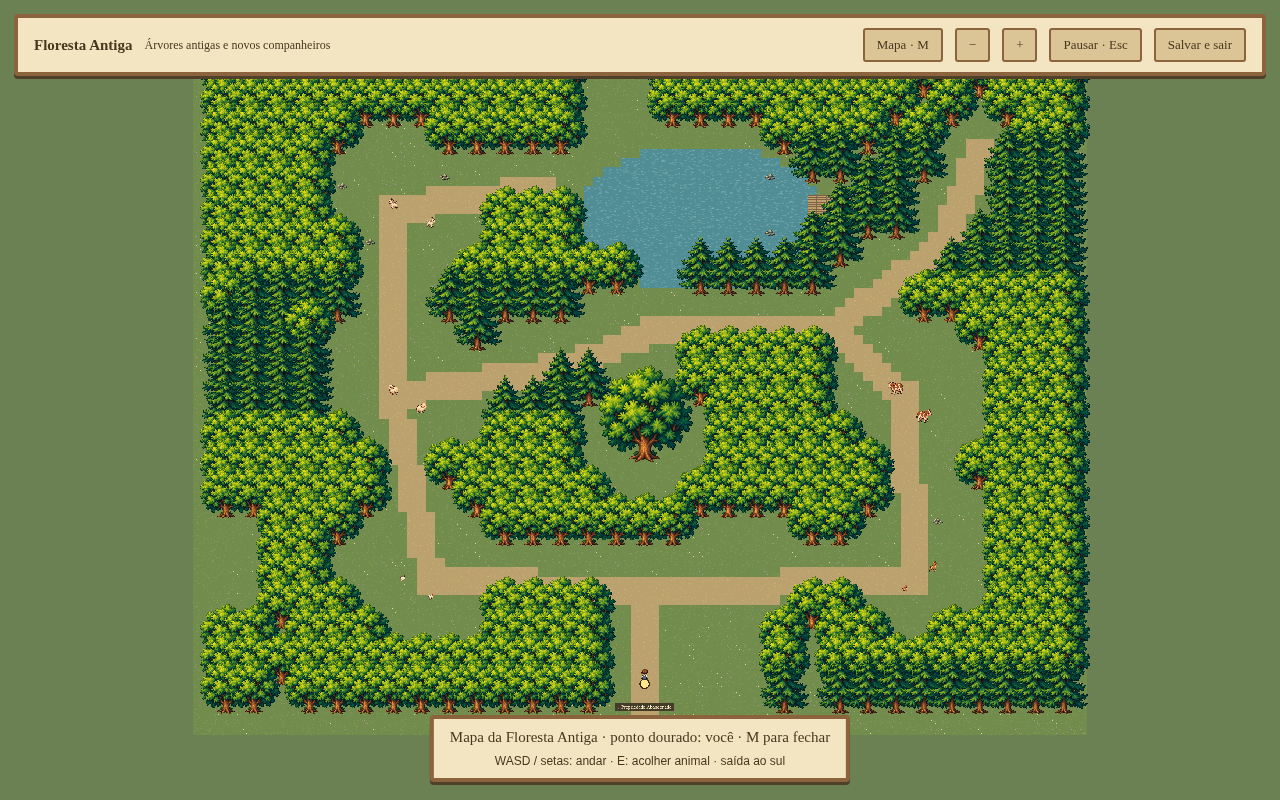
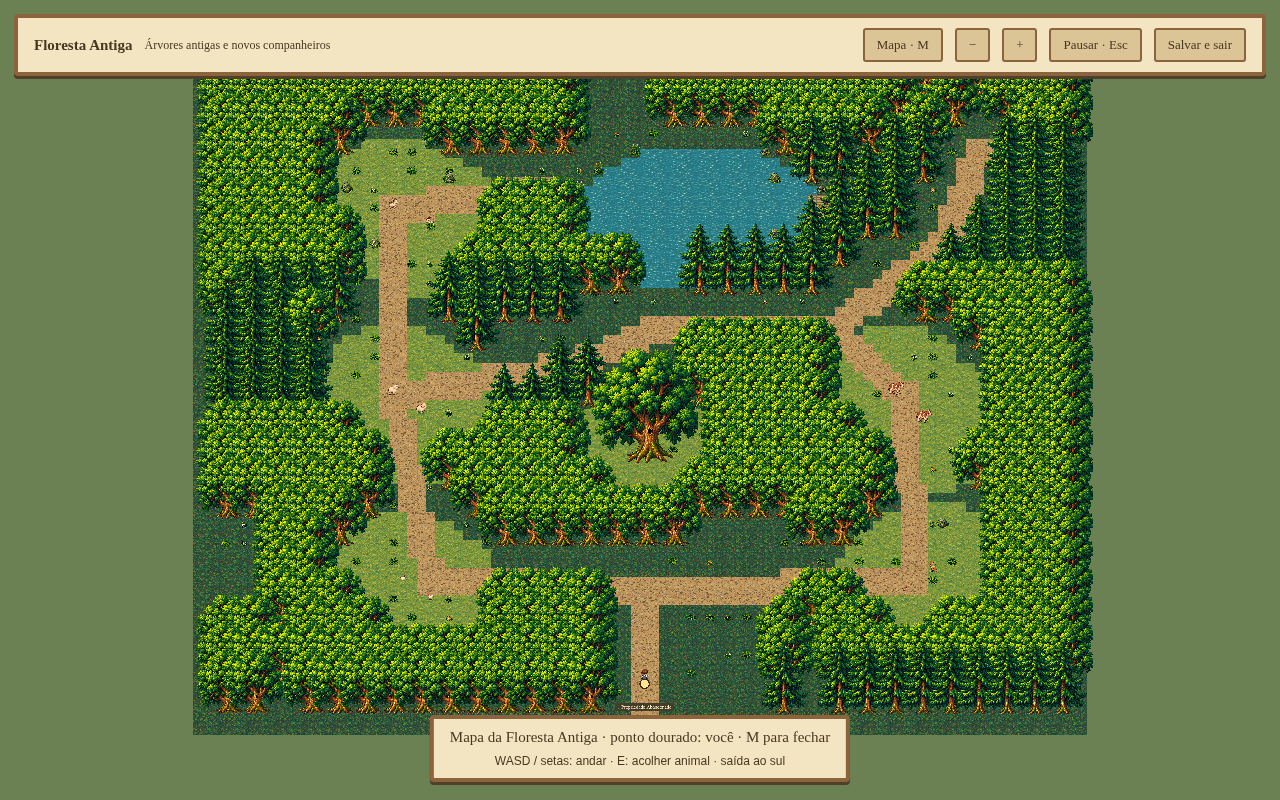
Renova sprites ambientais e texturiza a Floresta Antiga

diff --git a/src/scenes/ForestScene.ts b/src/scenes/ForestScene.ts
@@ -6,7 +6,7 @@ import { advanceClock, GAME_MINUTES_PER_SECOND } from '../systems/clock';
 import { Farming } from '../systems/farming';
 import { directionFromVector, directionVector } from '../character-directions';
 import { animalSprite, setupAnimalArt } from '../forest-art';
-import { FOREST_ANIMALS, FOREST_ENTRY, FOREST_TREES, ANIMAL_NAMES, forestBlocked, forestWater, forestBridge, forestPathDistance, recruitAnimal } from '../data/ancient-forest';
+import { FOREST_ANIMALS, FOREST_ENTRY, FOREST_TREES, ANIMAL_NAMES, forestBlocked, forestWater, forestBridge, forestClearing, forestPathDistance, recruitAnimal } from '../data/ancient-forest';
 import { gameAudio } from '../audio';
 import { loadCameraZoom, saveCameraZoom, stepCameraZoom } from '../camera-zoom';
 import '../forest.css';
@@ -34,9 +34,10 @@ export class ForestScene extends Phaser.Scene {
     this.paused=false;this.mapOpen=false;this.leaving=false;this.elapsed=0;this.locationUntil=this.time.now+10000;this.animals=[];this.trees=[];
     this.zoom=loadCameraZoom();this.farming=new Farming(this.state.crops);setupAnimalArt(this);
     this.drawGround();
+    this.drawWoodlandDetails();
     for(const t of FOREST_TREES){
       const key=`asset-${t.pine?'pine':'tree'}-${(t.x+t.y)%3}`;
-      const sprite=this.add.image(t.x*32+16,t.y*32+25,key).setOrigin(.5,128/132).setScale(t.ancient?3.6:2.0).setDepth(t.y*32+25);
+      const sprite=this.add.image(t.x*32+16,t.y*32+25,key).setOrigin(.5,128/132).setScale((t.ancient?3.6:2.0)/(this.textures.exists('reference-trees-source')?2:1)).setDepth(t.y*32+25);
       this.trees.push(sprite);
     }
     for(const a of FOREST_ANIMALS)if(!this.state.recruitedAnimals?.includes(a.id))this.animals.push({id:a.id,x:a.x*32+16,y:a.y*32+16,sprite:animalSprite(this,a.kind,a.x*32+16,a.y*32+16)});
@@ -59,21 +60,61 @@ export class ForestScene extends Phaser.Scene {
     this.save();this.refreshPrompt();
   }
   private drawGround():void {
-    if(!this.textures.exists('ancient-forest-ground')){
-      const c=document.createElement('canvas');c.width=3072;c.height=2304;const g=c.getContext('2d')!;
-      let seed=4729;const rnd=()=>{seed=(Math.imul(seed,1664525)+1013904223)>>>0;return seed/4294967296;};
-      for(let y=0;y<72;y++)for(let x=0;x<96;x++){
-        const water=forestWater(x,y),path=forestPathDistance(x,y)<1.5,bridge=forestBridge(x,y);
-        g.fillStyle=water?'#518d94':path?'#baa16d':'#718c4d';g.fillRect(x*32,y*32,32,32);
-        for(let j=0;j<12;j++){g.fillStyle=water?'#91bbc066':path?'#e4c68a66':'#a8b96b66';g.fillRect(x*32+rnd()*30,y*32+rnd()*30,water?7:2,2);}
-        if(bridge){g.fillStyle='#806344';g.fillRect(x*32,y*32,32,32);g.fillStyle='#c09d6d';for(let j=0;j<4;j++)g.fillRect(x*32+2,y*32+j*8+1,28,5);}
-        if(!water&&!path&&rnd()<.16){g.fillStyle=rnd()<.5?'#e9d99a':'#bd94ae';g.fillRect(x*32+10,y*32+12,3,3);g.fillRect(x*32+22,y*32+24,3,3);}
-      }
-      this.textures.addCanvas('ancient-forest-ground',c)?.setFilter(Phaser.Textures.FilterMode.NEAREST);
+    // Small cached terrain chunks avoid a single oversized canvas/GPU upload.
+    const samples=new Map<string,CanvasImageSource>();
+    for(const material of ['water','path-dry','meadow','forest']){
+      const key=`asset-ground-${material}`;
+      if(this.textures.exists(key))samples.set(material,this.textures.get(key).getSourceImage() as HTMLCanvasElement);
     }
-    this.add.image(0,0,'ancient-forest-ground').setOrigin(0).setDepth(-100);
-    // Small banks and rocks support the animal clearings without blocking paths.
-    for(const [x,y] of [[16,13],[27,12],[19,19],[62,18],[62,12],[38,15],[80,49]])this.add.image(x*32,y*32,'asset-stone').setScale(1.3).setDepth(y*32);
+    for(let cy=0;cy<9;cy++)for(let cx=0;cx<12;cx++){
+      const key=`forest-ground-${cx}-${cy}`;
+      if(!this.textures.exists(key)){
+        const canvas=document.createElement('canvas');canvas.width=256;canvas.height=256;
+        const g=canvas.getContext('2d',{willReadFrequently:true})!;g.imageSmoothingEnabled=false;
+        for(let ty=0;ty<8;ty++)for(let tx=0;tx<8;tx++){
+          const x=cx*8+tx,y=cy*8+ty,water=forestWater(x,y),path=forestPathDistance(x,y)<1.5;
+          const material=water?'water':path?'path-dry':forestClearing(x,y)?'meadow':'forest';
+          g.fillStyle=water?'#3c878f':path?'#b18955':'#416531';g.fillRect(tx*32,ty*32,32,32);
+          const source=samples.get(material);
+          if(source)g.drawImage(source,(x%3)*32,(y%3)*32,32,32,tx*32,ty*32,32,32);
+          let seed=(Math.imul(x+19,73856093)^Math.imul(y+7,19349663))>>>0;
+          const rnd=()=>{seed=(Math.imul(seed,1664525)+1013904223)>>>0;return seed/4294967296;};
+          if(path&&!water)for(let j=0;j<9;j++){
+            const px=tx*32+Math.floor(rnd()*28),py=ty*32+Math.floor(rnd()*28),w=3+Math.floor(rnd()*4);
+            g.fillStyle='#735936';g.fillRect(px,py+1,w,3);g.fillStyle=j%2?'#c4a364':'#ac8c53';g.fillRect(px,py,w-1,2);
+          }
+          if(forestBridge(x,y)){
+            g.fillStyle='#806344';g.fillRect(tx*32,ty*32,32,32);g.fillStyle='#c09d6d';
+            for(let j=0;j<4;j++)g.fillRect(tx*32+2,ty*32+j*8+1,28,5);
+          }
+        }
+        this.textures.addCanvas(key,canvas)?.setFilter(Phaser.Textures.FilterMode.NEAREST);
+      }
+      this.add.image(cx*256,cy*256,key).setOrigin(0).setDepth(-100);
+    }
+  }
+  private drawWoodlandDetails():void {
+    const detail=(kind:string,x:number,y:number,size:number)=>{
+      const key=`forest-detail-${kind}`;if(!this.textures.exists(key))return;
+      this.add.image(x*32+16,y*32+25,key).setOrigin(.5,124/128).setDisplaySize(size,size).setDepth(y*32+25);
+    };
+    // Soft vegetation is walk-through; large wood rests against existing blocked trunks.
+    for(let y=3;y<69;y+=2)for(let x=3;x<94;x+=2){
+      const seed=(Math.imul(x,73856093)^Math.imul(y,19349663))>>>0;
+      if(forestWater(x,y)||forestPathDistance(x,y)<1.8)continue;
+      const shore=[[1,0],[-1,0],[0,1],[0,-1]].some(([dx,dy])=>forestWater(x+dx,y+dy));
+      if(shore){detail(seed%3?'shore':'reeds',x,y,seed%3?38:46);continue;}
+      if(seed%7===0)detail('fern',x,y,36);
+      else if(seed%11===0)detail('flowers',x,y,30);
+      else if(seed%23===0)detail('mushrooms',x,y,26);
+    }
+    FOREST_TREES.forEach((t,i)=>{
+      if(t.ancient)return;
+      if(i%17===0)detail('log',t.x,t.y,58);
+      else if(i%13===0)detail('stump',t.x,t.y,36);
+      else if(i%7===0)detail('bush',t.x+.5,t.y,45);
+    });
+    for(const [x,y] of [[16,13],[27,12],[19,19],[62,18],[62,12],[38,15],[80,49]])detail('boulder',x,y,46);
   }
   private applyCamera():void {
     if(!this.player)return;

diff --git a/src/reference-nature.ts b/src/reference-nature.ts
@@ -1,0 +1,51 @@
+import Phaser from 'phaser';
+
+/** New source PNGs stay intact. Crops are built once, with nearest-neighbor sampling. */
+function cropCell(scene: Phaser.Scene, sourceKey: string, column: number, row: number, columns: number, rows: number): HTMLCanvasElement | undefined {
+  if (!scene.textures.exists(sourceKey)) return;
+  const source=scene.textures.get(sourceKey).getSourceImage() as HTMLImageElement;
+  // Atlas rows are separated by authored transparent gutters, not exact grid fractions.
+  const xs=sourceKey==='reference-trees-source'?[0,430,827,1254]:[0,438,868,1254];
+  const ys=sourceKey==='reference-trees-source'?[0,577,1254]:[0,500,875,1254];
+  const x=Math.floor((xs[column]??column*1254/columns)*source.width/1254);
+  const y=Math.floor((ys[row]??row*1254/rows)*source.height/1254);
+  const width=Math.floor(xs[column+1]*source.width/1254)-x,height=Math.floor(ys[row+1]*source.height/1254)-y;
+  const scan=document.createElement('canvas');scan.width=width;scan.height=height;
+  const ctx=scan.getContext('2d',{willReadFrequently:true})!;ctx.imageSmoothingEnabled=false;
+  ctx.drawImage(source,x,y,width,height,0,0,width,height);
+  const image=ctx.getImageData(0,0,width,height);let left=width,top=height,right=-1,bottom=-1;
+  for(let py=0;py<height;py++)for(let px=0;px<width;px++){
+    const i=(py*width+px)*4;image.data[i+3]=image.data[i+3]>=160?255:0;
+    if(!image.data[i+3])continue;
+    left=Math.min(left,px);right=Math.max(right,px);top=Math.min(top,py);bottom=Math.max(bottom,py);
+  }
+  if(right<left)return;ctx.putImageData(image,0,0);
+  const trimmed=document.createElement('canvas');trimmed.width=right-left+1;trimmed.height=bottom-top+1;
+  trimmed.getContext('2d')!.drawImage(scan,left,top,trimmed.width,trimmed.height,0,0,trimmed.width,trimmed.height);
+  return trimmed;
+}
+function fit(scene:Phaser.Scene,key:string,source:HTMLCanvasElement,width:number,height:number,ground=height-2):void {
+  if(scene.textures.exists(key))return;
+  const canvas=document.createElement('canvas');canvas.width=width;canvas.height=height;
+  const g=canvas.getContext('2d')!;g.imageSmoothingEnabled=false;
+  const scale=Math.min((width-4)/source.width,(ground-2)/source.height);
+  const w=Math.round(source.width*scale),h=Math.round(source.height*scale);
+  g.drawImage(source,Math.round((width-w)/2),ground-h,w,h);
+  scene.textures.addCanvas(key,canvas)?.setFilter(Phaser.Textures.FilterMode.NEAREST);
+}
+export const REFERENCE_DETAILS = ['boulder','log','stump','fern','flowers','bush','shore','reeds','mushrooms'] as const;
+export function setupReferenceNature(scene:Phaser.Scene):void {
+  for(let row=0;row<2;row++)for(let col=0;col<3;col++){
+    const source=cropCell(scene,'reference-trees-source',col,row,3,2);if(!source)continue;
+    fit(scene,`asset-${row?'pine':'tree'}-${col}`,source,208,264,256);
+  }
+  REFERENCE_DETAILS.forEach((id,i)=>{
+    const source=cropCell(scene,'reference-details-source',i%3,Math.floor(i/3),3,3);if(!source)return;
+    fit(scene,`forest-detail-${id}`,source,128,128,124);
+    const aliases:Partial<Record<typeof id,readonly [string,number,number]>>={
+      boulder:['asset-stone',30,20],stump:['tree-stump',32,24],fern:['asset-fern',32,30],
+      flowers:['asset-flowers-white',32,28],shore:['asset-shore-stones',38,22],
+    };
+    const alias=aliases[id];if(alias)fit(scene,alias[0],source,alias[1],alias[2]);
+  });
+}

diff --git a/src/visual-assets.ts b/src/visual-assets.ts
@@ -1,4 +1,5 @@
 import Phaser from 'phaser';
+import { setupReferenceNature } from './reference-nature';
 import { preloadCharacterSprites, setupCharacterSprites } from './character-sprites';
 import { setupNatureSprites } from './nature-sprites';
 import { setupTerrainSprites } from './terrain-sprites';
@@ -31,6 +32,8 @@ export function preloadVisualAssets(scene: Phaser.Scene): void {
   preloadHouseSprite(scene);
   preloadCharacterSprites(scene);
   preloadToolArt(scene);
+  scene.load.image('reference-trees-source', 'assets/visual/nature/reference-trees.png');
+  scene.load.image('reference-details-source', 'assets/visual/nature/reference-details.png');
   scene.load.image('forest-animals-source', 'assets/visual/forest/animals.png');
   scene.load.image('icon-water-empty', WATER_EMPTY_ICON);
   for (const id of ['water', 'seeds']) scene.load.image(`icon-${id}`, `${BASE}icons/${id}.png`);
@@ -208,6 +211,7 @@ function createHouse(scene: Phaser.Scene): void {
 
 export function setupVisualAssets(scene: Phaser.Scene): void {
   setupCharacterSprites(scene);
+  setupReferenceNature(scene);
   setupResourceSprites(scene);
   for (const [id, width, height] of [['stone', 26, 22], ['scrap', 32, 32], ['log', 40, 34], ['branch', 36, 32], ['fiber', 32, 34], ['seeds', 34, 38], ['vein', 44, 48], ['workbench', 40, 40]] as const) {
     if (!scene.textures.exists(`asset-${id}`)) fitSource(scene, `source-${id}`, `asset-${id}`, width, height, 1);

diff --git a/src/world.ts b/src/world.ts
@@ -266,11 +266,12 @@ export function createWorld(scene: Phaser.Scene, depletedResources: string[], bu
     const treeTexture = useArtwork ? artwork : pine ? 'pine' : 'oak';
     const footX = x * TILE + 16, footY = y * TILE + 25;
     const pivot = artwork.endsWith(`-${variant}`) ? 128 / 132 : useArtwork ? 1 : 0.93;
-    const treeImage = scene.add.image(footX, footY, treeTexture).setOrigin(0.5, pivot).setScale(TREE_VISUAL_SCALE).setDepth(footY);
+    const artScale = TREE_VISUAL_SCALE / (useArtwork && scene.textures.exists('reference-trees-source') ? 2 : 1);
+    const treeImage = scene.add.image(footX, footY, treeTexture).setOrigin(0.5, pivot).setScale(artScale).setDepth(footY);
     resourceImages.set(id, treeImage);
     editorObjects.push({ id, x, y, kind, texture: treeTexture });
-    const width = (treeImage.width || 88) * TREE_VISUAL_SCALE;
-    const height = (treeImage.height || 116) * TREE_VISUAL_SCALE * pivot;
+    const width = (treeImage.width || 88) * artScale;
+    const height = (treeImage.height || 116) * artScale * pivot;
     canopies.set(tile, { image: treeImage, x: footX, y: footY, width, height });
     canopyRadiusX = Math.max(canopyRadiusX, Math.ceil(width / 2 / TILE) + 1);
     canopyRadiusY = Math.max(canopyRadiusY, Math.ceil(height / TILE) + 1);

diff --git a/docs/cenarios/NOTAS-PREVIA.md b/docs/cenarios/NOTAS-PREVIA.md
@@ -1,15 +1,9 @@
-# After Rain 0.9.0 — Floresta Antiga
+# After Rain 0.9.1 — Natureza renovada
 
-- Nova área separada de 96×72 blocos, com lago, riacho, ponte, caminhos, clareiras e árvores grandes.
-- O mapa anterior continua inteiro como Propriedade Abandonada, preservando plantações, construções, recursos e edições.
-- Dez animais em seis tipos, com sprites novos: galinhas, ovelhas, cabras, vacas, coelho e cervo. E acolhe o animal; ele aparece nos campos da propriedade e não reaparece na floresta.
-- Salva a área atual, posição da floresta e animais acolhidos; permite continuar dentro da floresta. Relógio e plantações continuam avançando.
-- M mostra a área inteira e o indicador do jogador; zoom, pausa e transições com escurecimento.
+Novas árvores frondosas, pinheiros, pedras com musgo, troncos, samambaias, flores e cogumelos seguindo a referência da Floresta Antiga. Trilhas e chão texturizados. Dimensões do mapa, colisões e progresso preservados.
 
-Como entrar: siga a trilha a leste da propriedade, atravesse a ponte e continue até a placa Floresta Antiga no fim do caminho (bloco 75,18). Com as mãos vazias, pressione E junto à placa. A saída da floresta fica ao sul; E retorna à propriedade.
+Baixe `After-Rain-0.9.1-Windows-x64.exe` e execute no Windows 11 x64.
 
-Esta primeira etapa inclui exploração e acolhimento simples. Alimentação, reprodução, produção e caminhada animada dos animais ainda não estão implementadas. Construção, fabricação, ferramentas e editor continuam na propriedade; a floresta usa controles próprios de exploração.
+Validação: 322 testes, TypeScript, build e teste no Chromium de transições, mapa, movimento, pausa, acolhimento dos dez animais e salvamento sem reaparecimento. O executável é gerado no Windows pelo GitHub Actions; não foi testado interativamente em Windows neste ambiente.
 
-Validação: TypeScript, 322 testes, build e Chromium. Testados acesso às clareiras, entrada/retorno, mapa, teclado, pausa, acolhimento dos dez animais, presença na propriedade, reentrada sem duplicação e recarga na floresta.
-
-Prévia portátil Windows 11 x64 gerada em Windows. Execução interativa no Windows 11 não testada neste ambiente Linux.
+[Ver captura do cenário](https://github.com/juniorangel2000-commits/Junior/blob/preview/nature-0.9.1/docs/cenarios/floresta-animais.png) · [Ver mapa completo](https://github.com/juniorangel2000-commits/Junior/blob/preview/nature-0.9.1/docs/cenarios/floresta-mapa.png)

diff --git a/docs/cenarios/SPRITES-REFERENCIA.md b/docs/cenarios/SPRITES-REFERENCIA.md
@@ -1,0 +1,20 @@
+# Sprites do cenário a partir da referência compacta
+
+Novas pranchas originais preservadas em PNG transparente:
+
+- `public/assets/visual/nature/reference-trees.png`: três árvores frondosas e três pinheiros.
+- `public/assets/visual/nature/reference-details.png`: pedra com musgo, tronco caído, toco, samambaia, flores brancas, arbusto, pedras de margem, juncos e cogumelos.
+
+Paleta: sombras verdes profundas, folhagem verde-amarelada sob a luz, madeira quente e pedras com musgo. As imagens foram geradas seguindo a direção visual da referência enviada; a referência não foi usada como mapa plano.
+
+As árvores são recortadas em texturas 208×264 (densidade 2×), mantendo o tamanho no mundo, pivô dos pés e colisões anteriores. Os detalhes da floresta usam texturas 128×128 e escala explícita. Pedras pequenas, samambaias, flores, tocos e margens da propriedade recebem novas versões nas dimensões lógicas existentes. Os PNGs antigos permanecem no projeto.
+
+O chão da floresta agora usa os materiais texturizados do jogo; as trilhas recebem pedrinhas em tons quentes e as margens ganham juncos e pedras. Plantas pequenas não bloqueiam os caminhos. Troncos e tocos decorativos acompanham posições das árvores. IDs, recursos, animais acolhidos e save não são alterados por esta troca de arte.
+
+## Validação
+
+322 testes passaram; verificação TypeScript e build concluídos. O teste Chromium confirmou entrada, mapa, movimento, pausa, dez acolhimentos únicos, retorno à propriedade, ausência de reaparecimento e recarga na floresta. Capturas reais: `floresta-mapa.png`, `floresta-animais.png` e `animais-propriedade.png`.
+
+O terreno é composto uma vez em blocos de 256×256 e reutilizado ao voltar à floresta. O teste de navegador também foi corrigido para não serializar a cena inteira com suas texturas.
+
+Esta atualização aproxima as sprites ambientais da referência. O traçado e as dimensões do mapa são preservados; as bordas do terreno ainda seguem a grade existente. Não houve teste interativo do executável no Windows neste ambiente Linux.
